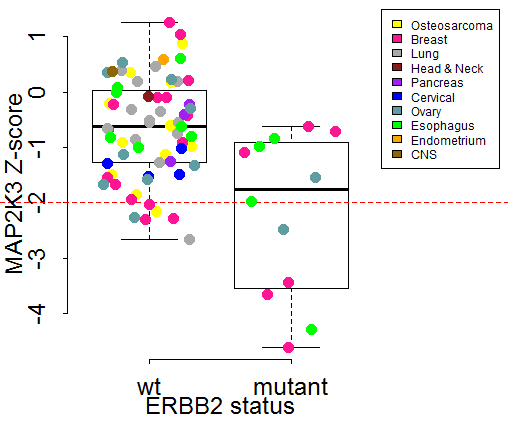
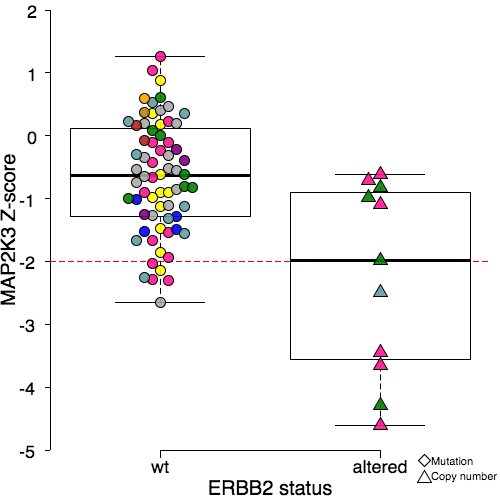
Updating FAQ / UI Tweaks
Updated FAQ to reflect new genotype processing and box plot format.
Removed ‘Show Drivers’ toggle. Added alteration information for driver
genes. Stopped including the tissues page as it is out of date.

diff --git a/gendep/templates/gendep/about.html b/gendep/templates/gendep/about.html
@@ -1,8 +1,8 @@
 {% extends 'gendep/base.html' %}
 {% load staticfiles %}
 {% block content %}   
-<h1>About CGDD</h1>
-<p> The Cancer Genetic Dependencies Database provides a searchable collection of genetic vulnerabilities associated with the alteration of <a href="{% url 'gendep:drivers' %}" title="Driver genes">driver genes</a> in cancer cell lines. We integrate genotypic data describing the mutation or copy number alteration of driver genes with large scale loss of function screens in cancer cell lines. This allows us to identify instances where alteration of a specific driver gene is associated with an increased sensitivity to the perturbation of another gene. Currently the <a href="{% url 'gendep:studies' %}" title="Studies">loss-of-function screens</a> we integrate are generated using RNA interference (RNAi) based approaches but we anticipate the integration of CRISPR screens as they become available. </p>
+<h1>About CancerGD</h1>
+<p> CancerGD provides a searchable collection of genetic vulnerabilities associated with the alteration of <a href="{% url 'gendep:drivers' %}" title="Driver genes">driver genes</a> in cancer cell lines. We integrate genotypic data describing the mutation or copy number alteration of driver genes with large scale loss of function screens in cancer cell lines. This allows us to identify instances where alteration of a specific driver gene is associated with an increased sensitivity to the perturbation of another gene. Currently the <a href="{% url 'gendep:studies' %}" title="Studies">loss-of-function screens</a> we integrate are generated using RNA interference (RNAi) based approaches but we anticipate the integration of CRISPR screens as they become available. </p>
 
 <p> Our goal with this resource is to make the identification and interpretation of genotype-associated vulnerabilities from loss-of-function screens as easy as possible. To this end we integrate two additional data sources with the identified genetic dependencies. To identify potentially 'druggable' vulnerabilities we annotate each gene identified as a dependency according to whether it has an available inhibitor. This data is taken from <a href="http://dgidb.genome.wustl.edu/" title="DGIdb">DGIdb</a>. To aid the interpretation of genetic dependencies we integrate known functional interactions from the <a href="http://string-db.org/" title="STRING-db">STRING database</a>. This allows the user to easily identify genetic dependencies where there is a known relationship between the dependency and the driver gene (e.g. ERBB2 amplification is associated with an increased dependency on the ERBB2 binding partner ERBB3). It is also possible to view the functional interactions between the dependencies associated with a given driver gene, to see if they are functionally related (e.g. SMAD4 loss is associated with an increased dependence upon a densely connected group of genes all involved in the mitotic checkpoint).</p>
 <p>This project was supported by funding from <a href="http://www.hrb.ie/">The Health Research Board, Ireland</a>.</p>

diff --git a/gendep/templates/gendep/faq.html b/gendep/templates/gendep/faq.html
@@ -28,8 +28,7 @@
 
 <center><img src="{% static 'gendep/images/FAQ_boxplot.png' %}" alt="Box plot"/></center>
 
-<p>Each <a href="https://en.wikipedia.org/wiki/Box_plot" title="Box plot">box plot</a> shows the sensitivity of cell lines partitioned according to the status of a particular <a href="{% url 'gendep:drivers' %}">driver gene</a> to RNAi reagents targeting a particular gene. For instance above we show the box plot indicating a dependency between <i>ERBB2</i> amplification and sensitivity to <i>MAP2K3</i> siRNA. The cell lines featuring the alteration in question are displayed on the right and the cell lines without the alteration are on the left.  Each coloured circle represents a cell line and the position along the y-axis indicates how sensitive that cell line is to the RNAi reagents targeting the gene indicated. The colours indicate the tissue of origin for each cell line, as indicated in the legend. The boxes themselves are <a href="https://en.wikipedia.org/wiki/Box_plot#Types_of_box_plots" title="Box plot">Tukey box plots</a> – the bold line indicates the median of each group, the edges of the box indicates the interquartile range, and the whiskers indicate 1.5 times the interquartile range.</p>
-
+<p>Each <a href="https://en.wikipedia.org/wiki/Box_plot" title="Box plot">box plot</a> shows the sensitivity of cell lines partitioned according to the status of a particular <a href="{% url 'gendep:drivers' %}">driver gene</a> to RNAi reagents targeting a particular gene. For instance above we show the box plot indicating a dependency between <i>ERBB2</i> amplification and sensitivity to <i>MAP2K3</i> siRNA. The cell lines featuring the alteration in question are displayed on the right and the cell lines without the alteration are on the left. Each coloured object represents a cell line and the position along the y-axis indicates how sensitive that cell line is to the RNAi reagents targeting the gene indicated. The colours indicate the tissue of origin for each cell line, as indicated in the legend. The shape of each object indicates the alteration type (circle = no alteration, triangle = copy number, diamond = mutation). The boxes themselves are <a href="https://en.wikipedia.org/wiki/Box_plot#Types_of_box_plots" title="Box plot">Tukey box plots</a> – the bold line indicates the median of each group, the edges of the box indicates the interquartile range, and the whiskers indicate 1.5 times the interquartile range.</p>
 
 <a name="gene_altered"><h2>When is a driver gene considered 'altered'?</h2></a>
 

diff --git a/gendep/templates/gendep/drivers.html b/gendep/templates/gendep/drivers.html
@@ -1,27 +1,21 @@
 {% extends 'gendep/base.html' %}
 {% load staticfiles %}
 {% block content %}
-<p>Details of driver genes investigated:</p>
+<h2 align="centre">Details of driver genes investigated</h2>
 {% endblock %}
 {% block table %}
 <table cellpadding="3" class="tabler"> <!-- style="border: 1px solid blue;" -->
-<thead><tr><th>Driver gene</th><th>Full name</th><th>Synonyms</th><th>Num studies</th><th>Num tissues</th><th>Num targets</th><th>External links</th></tr></thead>
+<thead><tr><th>Driver gene</th><th>Full name</th><th>Synonyms</th><th>Alterations Considered</th><th>Studies</th><th>Tissues</th><th>Targets</th></tr></thead>
 <tbody>
 {% for g in driver_list %}
 <tr>
 <td><a href="{% url 'gendep:home_search_by_gene' search_by='driver' gene_name=g.gene_name %}">{{ g.gene_name }}</a></td>
 <td>{{ g.full_name }}</td>
 <td><font size="-1">{{ g.prevname_synonyms }}</font></td>
+<td><font size="-1">{{ g.alteration_considered }}</font></td>
 <td style="text-align:center"><a class="tipleft" href="javascript:void(0);">{{ g.driver_num_studies }}<span>PubMed Ids: {{ g.driver_study_list }}</span></a></td>
 <td style="text-align:center"><a class="tipleft" href="javascript:void(0);">{{ g.driver_num_histotypes }}<span>{{ g.driver_histotype_list }} {# was: driver_histotype_list_full_names #}</span></a></td>
 <td style="text-align:center">{{ g.driver_num_targets }}</td>
-<td><font size="-2">
-  <a href="http://www.genecards.org/cgi-bin/carddisp.pl?gene={{ g.gene_name }}" target="_blank">GeneCards</a>
-  <a href="https://www.ncbi.nlm.nih.gov/gene/{{ g.entrez_id }}" target="_blank">Entrez</a>
-  {% if g.ensembl_id != '' %} <a href="http://www.ensembl.org/Homo_sapiens/Gene/Summary?g={{ g.ensembl_id }}" target="_blank">Ensembl</a> {% endif %}  
-  {% if g.hgnc_id != ''%} <a href="http://www.genenames.org/cgi-bin/gene_symbol_report?hgnc_id={{ g.hgnc_id }}" target="_blank">HGNC</a> {% endif %}  
-  {# was driver.external_links|safe #}
-</font></td>
 </tr>
 {% endfor %}
 </tbody>

diff --git a/gendep/templates/gendep/studies.html b/gendep/templates/gendep/studies.html
@@ -5,7 +5,7 @@
 {% endblock %}
 {% block table %}
 <table cellpadding="3" class="tabler">
-<thead><tr><th>Link</th><th>PubMed ID</th><th>Title:</th><th>Authors</th><th>Experiment type</th><th>Journal</th><th>Publication date</th><th>Num drivers</th><th>Num tissues</th><th>Num targets</th></tr></thead>
+<thead><tr><th>Link</th><th>PubMed ID</th><th>Title</th><th>Authors</th><th>Experiment type</th><th>Journal</th><th>Drivers</th><th>Tissues</th><th>Targets</th></tr></thead>
 <tbody>
 {% for study in study_list %}
 <tr>
@@ -15,7 +15,6 @@
 <td><a class="tip" href="#">{{ study.authors|slice:":30" }} et al<span>{{ study.authors }}</span></a></td>
 <td><a class="tip" href="#">{{ study.experiment_type }}<span>{{ study.summary }}</span></a></td>
 <td>{{ study.journal }}</td>
-<td>{{ study.pub_date }}</td>
 <td style="text-align:center">{{ study.num_drivers }}</td>
 <td style="text-align:center">{{ study.num_histotypes }}</td>
 <td style="text-align:center">{{ study.num_targets }}</td>

diff --git a/gendep/templates/gendep/index.html b/gendep/templates/gendep/index.html
@@ -618,10 +618,7 @@ In the 'Driver gene' search box, typing two letters of a gene name will display 
   <label for="gene">Driver gene:</label>
   <input name="gene" id="gene" placeholder="Gene name (eg. ERBB2)"  value="{{ gene_name }}"/>   {# value= ... is when directed to this page by link from the Drivers or Targets page #}
   <!-- Could add a button: https://jqueryui.com/autocomplete/#combobox -->
-</td><td style="padding-left:0;">
-  <button name="show_all_button" id="show_all_button" style="margin-left:-3px;">Show All</button>
 </td>
-
 
 <td style="padding-left:10px;"><label for="histotype">Tissue type:</label>
    <!-- Could alternatively use the jQuery SelectMenu widget: http://jqueryui.com/selectmenu/ -->

diff --git a/gendep/templates/gendep/base.html b/gendep/templates/gendep/base.html
@@ -29,7 +29,7 @@
  &nbsp; &nbsp; <a href="{% url 'gendep:tutorial' %}">Tutorial</a>
  &nbsp; &nbsp; <a href="{% url 'gendep:drivers' %}">Drivers</a>
 {# &nbsp; &nbsp; <a href="{ % url 'gendep:targets' % }">Target genes</a> #}
- &nbsp; &nbsp; <a href="{% url 'gendep:tissues' %}">Tissues</a>
+{# &nbsp; &nbsp; <a href="{% url 'gendep:tissues' %}">Tissues</a> #}
  &nbsp; &nbsp; <a href="{% url 'gendep:studies' %}">Studies</a>
  &nbsp; &nbsp; <a href="{% url 'gendep:faq' %}">FAQ</a>
  &nbsp; &nbsp; <a href="{% url 'gendep:contact' %}">Contact</a>
